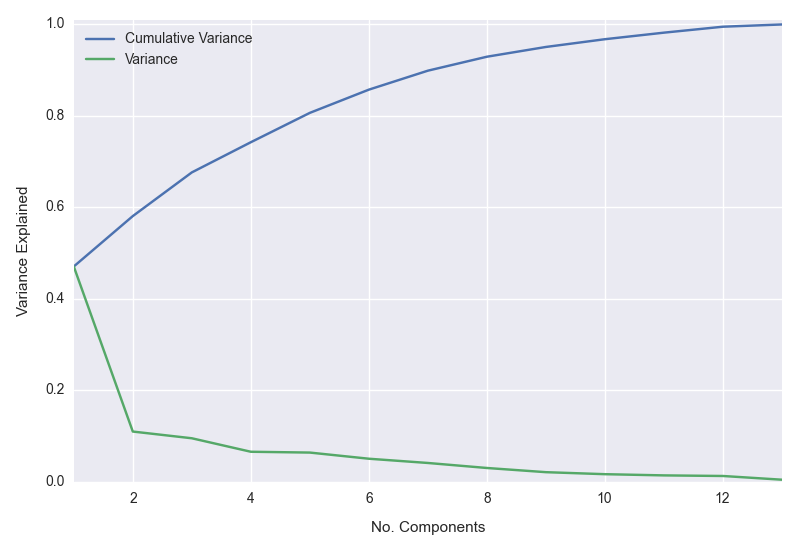
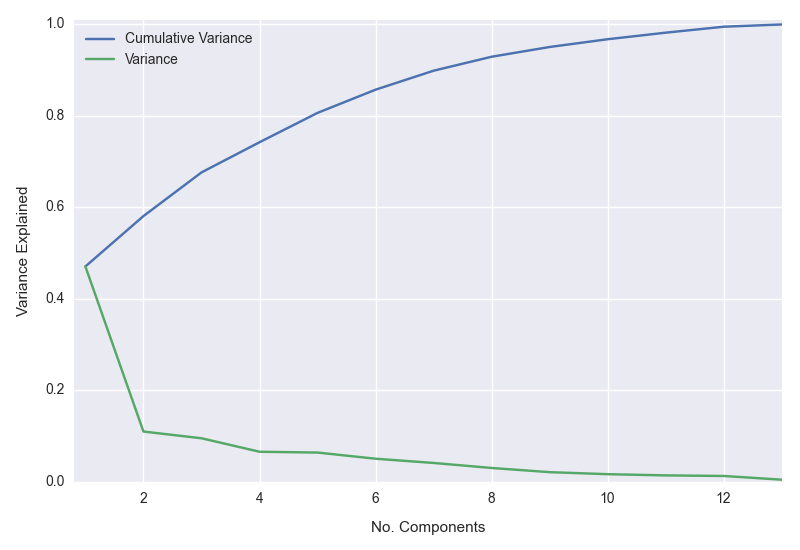
Adjust xlim lower bound just below 1

diff --git a/scree_plot.py b/scree_plot.py
@@ -21,7 +21,7 @@ def scree_plot(pca_obj, fname=None):
     plt.figure()
     plt.plot(np.arange(1, components + 1), np.cumsum(variance), label='Cumulative Variance')
     plt.plot(np.arange(1, components + 1), variance, label='Variance')
-    plt.xlim([1, components]); plt.ylim([0.0, 1.01])
+    plt.xlim([0.8, components]); plt.ylim([0.0, 1.01])
     plt.xlabel('No. Components', labelpad=11); plt.ylabel('Variance Explained', labelpad=11)
     plt.legend(loc='best') 
     plt.tight_layout() 
